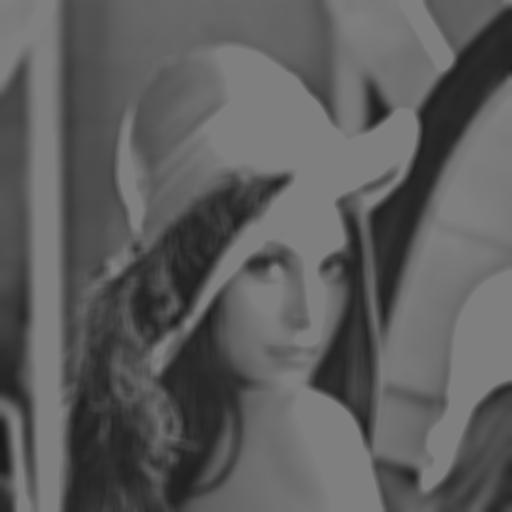
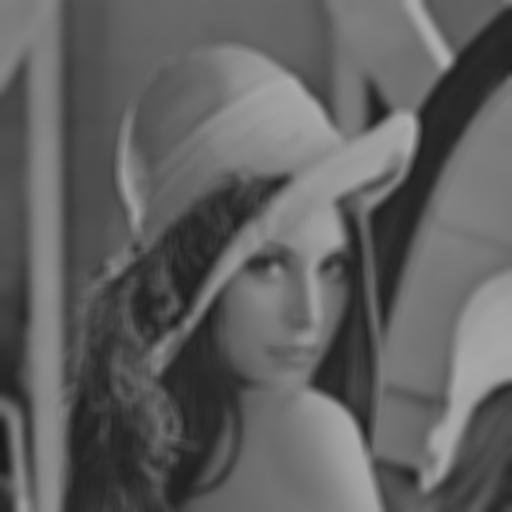
EX1 , EX2 part 1 fixed

diff --git a/Exercise/Ex1.m b/Exercise/Ex1.m
@@ -6,13 +6,17 @@ I = imread('lena.gif') ; % read image
 kernel = ones(11);
 [kr, kc] = size(kernel);
 
+figure(3)
+imshow(I)
+
+
 convoluted_image = convolution(I,kernel,'mirror');
 imwrite(uint8(convoluted_image) , strcat('convolved_img_mirror.jpg'));
 figure(1)
 imshow(uint8(convoluted_image))
 title('Mean Filter with Mirror treatment')
 
-convoluted_image = convolution(padded_image,kernel,'border');
+convoluted_image = convolution(I,kernel,'border');
 imwrite(uint8(convoluted_image) , strcat('convolved_img_border.jpg'));
 figure(2)
 imshow(uint8(convoluted_image));

diff --git a/Exercise/Ex2.m b/Exercise/Ex2.m
@@ -3,22 +3,15 @@ I = imread('lena.gif');
 
 [rows columns] = size(I);
 
-
-%radius = ceil(3*sigma)
-%width  = 2*radius+1;
-%height = 2*radius+1;
-
 mask = Gaussian2D(sigma);
-padded_image = do_padding(I,mask,'border');
-convoluted_image = convolution(padded_image,mask);
-
+convoluted_image = convolution(I,mask,'border');
 
 figure(3)
 imshow(I)
 title('Original Image')
 
 figure(4)
-imshow(uint8(convoluted_image))
+imshow(uint8(convoluted_image*127))
 title('convoluted image with 2D Gaussian Kernel')
 
 kernelyDirection = GaussianSeparate(sigma,'yDirection');

diff --git a/Exercise/convolution.m b/Exercise/convolution.m
@@ -24,7 +24,7 @@ for rows = 1 + n_rowsPadded : paddedImgR - n_rowsPadded
       %for k = 1:(kr*kc)
        %sumconv = sumconv+ (tempConv(k) * kernel(k));
       %end
-      convResult(rows - n_rowsPadded ,cols - n_colPadded) = int8(sumconv);
+      convResult(rows - n_rowsPadded ,cols - n_colPadded) = sumconv;
       %sumconv = 0;
     end
 end

diff --git a/Exercise/gaussian.m b/Exercise/gaussian.m
@@ -2,6 +2,7 @@ function [ G ] = gaussian( u,v,sigma )
 %UNTITLED2 Summary of this function goes here
 %   Detailed explanation goes here
 G = (1/(2*pi*sigma^2))*exp(-0.5*(u.^2 + v.^2)/sigma^2);
-G = 1/(sum(G(:))) * G
+%G = exp(-(u.^2 + v.^2)/(2*sigma^2));
+%G = 1/(sum(G(:))) * G
 end
 

diff --git a/Exercise/Gaussian2D.m b/Exercise/Gaussian2D.m
@@ -2,7 +2,6 @@ function [ kernel ] = Gaussian2D(sigma )
 %UNTITLED Summary of this function goes here
 %   Detailed explanation goes here
 
-
 radius = ceil(3*sigma);
 
 range = -floor(radius/2):floor(radius/2);
